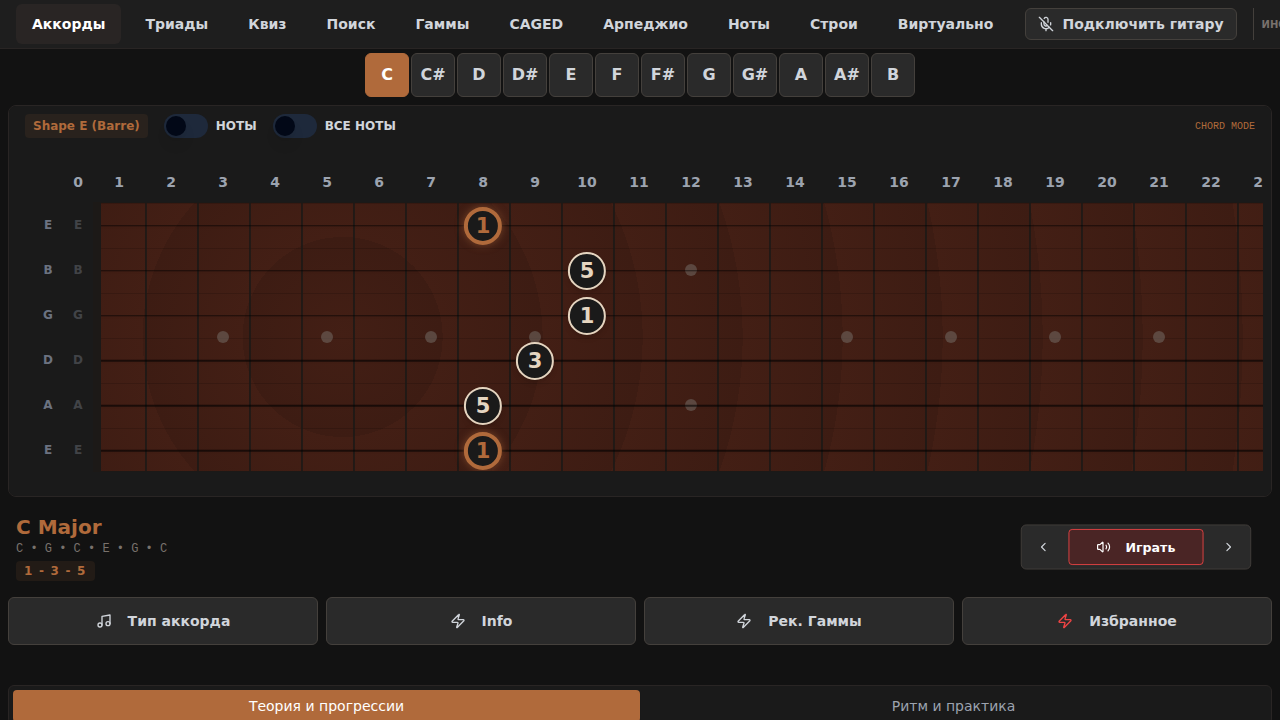
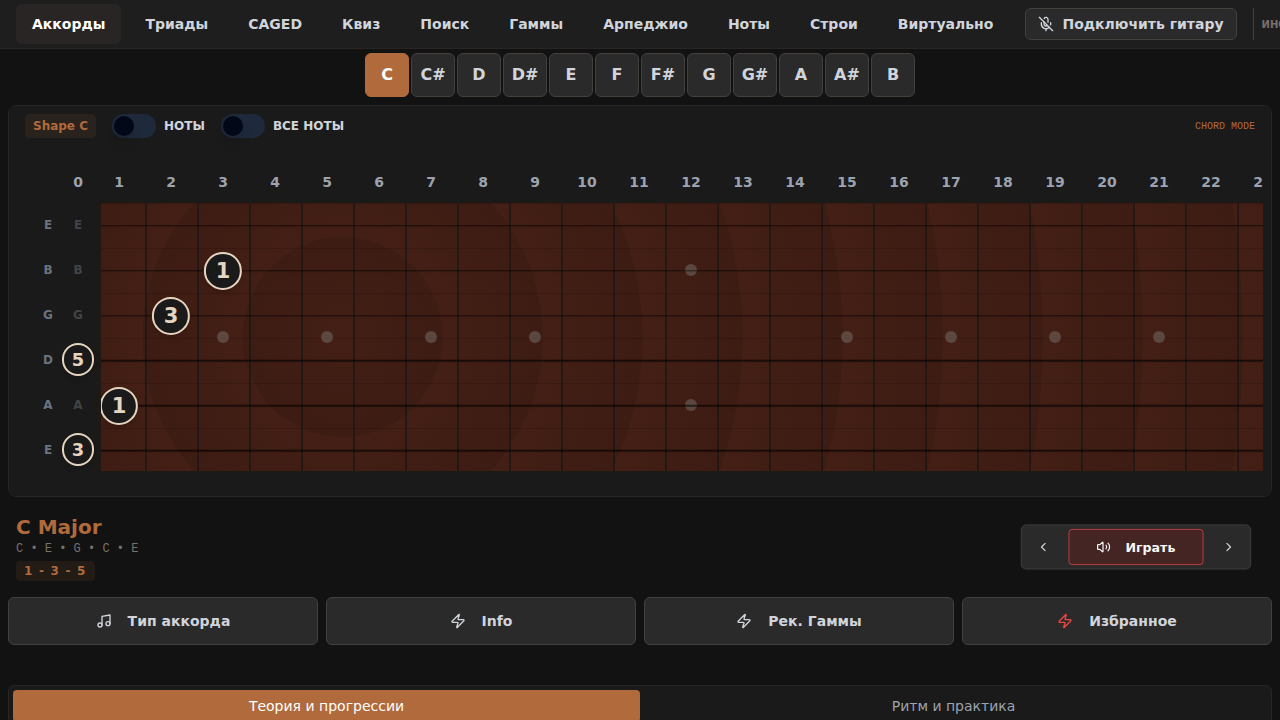
Rebrand and overhaul Fret & Key Maestro with real-time audio and advanced theory tools
- Rebranded app to 'Fret & Key Maestro' and removed all 'Dyad' references.
- Implemented full Russian localization as the default language.
- Integrated useAudioInput hook for real-time pitch detection via microphone.
- Implemented 'Zero Index Law' for chord playability sorting (prioritizing open chords).
- Added comprehensive CAGED shapes and triad string-sets.
- Optimized Arpeggiator with visual synchronization on the fretboard.
- Added support for Ukulele, Bass, and Piano with high-quality samples.
- Redesigned UI into Theory and Practice tabs for better mobile responsiveness.

diff --git a/src/pages/Index.tsx b/src/pages/Index.tsx
@@ -18,7 +18,7 @@ import {
 } from "@/components/ui/dropdown-menu";
 import { Select, SelectContent, SelectItem, SelectTrigger, SelectValue } from "@/components/ui/select";
 import { Input } from "@/components/ui/input";
-import { ALL_NOTES, SCALES, CHORDS, GENRES, CAGED_SHAPES, CHORD_VOICINGS, getVoicingNotes, GUITAR_TUNINGS, romanToChord, getScaleNotes, getChordNotes, findScalesByNotes, getScaleFormula } from "@/lib/fretboardUtils";
+import { ALL_NOTES, SCALES, CHORDS, GENRES, CAGED_SHAPES, CHORD_VOICINGS, getVoicingNotes, getSortedVoicingNames, GUITAR_TUNINGS, romanToChord, getScaleNotes, getChordNotes, findScalesByNotes, getScaleFormula } from "@/lib/fretboardUtils";
 import { ToggleGroup, ToggleGroupItem } from "@/components/ui/toggle-group";
 import { Switch } from "@/components/ui/switch";
 import { Tabs, TabsContent, TabsList, TabsTrigger } from "@/components/ui/tabs";
@@ -125,9 +125,13 @@ const Index = () => {
     let notes: string[] = [];
     let isChord = false;
 
-    if (viewMode === 'chord') {
-      const chordMap = CHORD_VOICINGS[selectedChordName] || CHORD_VOICINGS["Major"];
-      const voicingNames = Object.keys(chordMap);
+    if (viewMode === 'chord' || viewMode === 'triads' || viewMode === 'caged') {
+      const voicingNames = getSortedVoicingNames(
+        selectedRoot,
+        selectedChordName,
+        GUITAR_TUNINGS[selectedTuningName as keyof typeof GUITAR_TUNINGS] || GUITAR_TUNINGS.Standard,
+        viewMode
+      );
       const vIdx = typeof forceStart === 'number' ? forceStart : currentVoicingIndex;
       const voicingName = voicingNames[vIdx % voicingNames.length];
       const vNotes = getVoicingNotes(selectedRoot, selectedChordName, voicingName, GUITAR_TUNINGS[selectedTuningName as keyof typeof GUITAR_TUNINGS]);
@@ -301,13 +305,14 @@ const Index = () => {
   const activeNotesForArpeggio = useMemo(() => {
     // If in chord/caged/triad mode, use specific voicing if possible
     if (viewMode === 'chord' || viewMode === 'triads' || viewMode === 'caged') {
-      const chordMap = CHORD_VOICINGS[selectedChordName];
-      if (chordMap) {
-        const voicingNames = Object.keys(chordMap).filter(k =>
-          viewMode === 'triads' ? k.toLowerCase().includes('triad') :
-          viewMode === 'caged' ? k.toLowerCase().includes('shape') : true
-        );
-        const vName = voicingNames[currentVoicingIndex % voicingNames.length] || Object.keys(chordMap)[0];
+      const voicingNames = getSortedVoicingNames(
+        selectedRoot,
+        selectedChordName,
+        GUITAR_TUNINGS[selectedTuningName as keyof typeof GUITAR_TUNINGS] || GUITAR_TUNINGS.Standard,
+        viewMode
+      );
+      if (voicingNames.length > 0) {
+        const vName = voicingNames[currentVoicingIndex % voicingNames.length];
         const vNotes = getVoicingNotes(selectedRoot, selectedChordName, vName, GUITAR_TUNINGS[selectedTuningName as keyof typeof GUITAR_TUNINGS] || GUITAR_TUNINGS.Standard);
         if (vNotes.length > 0) {
           return vNotes.map(vn => ({
@@ -657,10 +662,11 @@ const Index = () => {
                 size="icon"
                 className="text-gray-300"
                 onClick={() => {
-                  const chordMap = CHORD_VOICINGS[selectedChordName!] || CHORD_VOICINGS["Major"];
-                  const voicingNames = Object.keys(chordMap).filter(k =>
-                    viewMode === 'triads' ? k.toLowerCase().includes('triad') :
-                    viewMode === 'caged' ? k.toLowerCase().includes('shape') : true
+                  const voicingNames = getSortedVoicingNames(
+                    selectedRoot,
+                    selectedChordName,
+                    GUITAR_TUNINGS[selectedTuningName as keyof typeof GUITAR_TUNINGS] || GUITAR_TUNINGS.Standard,
+                    viewMode
                   );
                   const count = voicingNames.length || 1;
                   const nextIndex = (currentVoicingIndex - 1 + count) % count;
@@ -686,10 +692,11 @@ const Index = () => {
                 size="icon"
                 className="text-gray-300"
                 onClick={() => {
-                  const chordMap = CHORD_VOICINGS[selectedChordName!] || CHORD_VOICINGS["Major"];
-                  const voicingNames = Object.keys(chordMap).filter(k =>
-                    viewMode === 'triads' ? k.toLowerCase().includes('triad') :
-                    viewMode === 'caged' ? k.toLowerCase().includes('shape') : true
+                  const voicingNames = getSortedVoicingNames(
+                    selectedRoot,
+                    selectedChordName,
+                    GUITAR_TUNINGS[selectedTuningName as keyof typeof GUITAR_TUNINGS] || GUITAR_TUNINGS.Standard,
+                    viewMode
                   );
                   const count = voicingNames.length || 1;
                   const nextIndex = (currentVoicingIndex + 1) % count;

diff --git a/src/lib/fretboardUtils.ts b/src/lib/fretboardUtils.ts
@@ -33,29 +33,36 @@ export const GUITAR_TUNINGS = {
 };
 
 export const CHORDS = {
+  // --- Major Family ---
   "Major": [0, 4, 7],
-  "Minor": [0, 3, 7],
-  "5 (Power)": [0, 7],
-  "Dominant 7th": [0, 4, 7, 10],
   "Major 7th": [0, 4, 7, 11],
-  "Minor 7th": [0, 3, 7, 10],
-  "Minor Major 7th": [0, 3, 7, 11],
-  "Suspended 4": [0, 5, 7],
-  "Suspended 2": [0, 2, 7],
   "Add 9": [0, 4, 7, 14],
   "Major 9": [0, 4, 7, 11, 14],
-  "Minor 9": [0, 3, 7, 10, 14],
-  "Dominant 9": [0, 4, 7, 10, 14],
   "6th": [0, 4, 7, 9],
+
+  // --- Minor Family ---
+  "Minor": [0, 3, 7],
+  "Minor 7th": [0, 3, 7, 10],
+  "Minor 9": [0, 3, 7, 10, 14],
   "Minor 6th": [0, 3, 7, 9],
+  "Minor Major 7th": [0, 3, 7, 11],
+
+  // --- Dominant Family ---
+  "Dominant 7th": [0, 4, 7, 10],
+  "Dominant 9": [0, 4, 7, 10, 14],
+  "Suspended 4": [0, 5, 7],
+  "Suspended 2": [0, 2, 7],
+  "7sus4": [0, 5, 7, 10],
+  "11th": [0, 4, 7, 10, 14, 17],
+  "13th": [0, 4, 7, 10, 14, 17, 21],
+
+  // --- Other ---
+  "5 (Power)": [0, 7],
   "Diminished": [0, 3, 6],
   "Diminished 7th": [0, 3, 6, 9],
   "Half-Diminished 7": [0, 3, 6, 10],
   "Augmented": [0, 4, 8],
   "Augmented 7th": [0, 4, 8, 10],
-  "7sus4": [0, 5, 7, 10],
-  "11th": [0, 4, 7, 10, 14, 17],
-  "13th": [0, 4, 7, 10, 14, 17, 21],
 };
 
 export const SCALES = {
@@ -586,6 +593,66 @@ export const getVoicingNotes = (
 
 export const getCAGEDNotes = (root: string, shapeName: string, tuning: string[]) =>
   getVoicingNotes(root, "Major", shapeName, tuning);
+
+/**
+ * Implements the "Zero Index Law" for guitar voicings.
+ * Sorts voicing names so that the most playable, lowest-fret variation is first.
+ */
+export const getSortedVoicingNames = (
+  root: string,
+  chordType: string,
+  tuning: string[],
+  viewMode: string = 'chord'
+): string[] => {
+  const chordMap = CHORD_VOICINGS[chordType] || CHORD_VOICINGS["Major"];
+  const names = Object.keys(chordMap).filter(k => {
+    if (viewMode === 'triads') return k.toLowerCase().includes('triad');
+    if (viewMode === 'caged') return k.toLowerCase().includes('shape');
+    return true;
+  });
+
+  if (names.length <= 1) return names;
+
+  const tuningStrings = [...tuning].reverse();
+
+  const voicingInfo = names.map(name => {
+    const vNotes = getVoicingNotes(root, chordType, name, tuning);
+    const hasOpen = vNotes.some(vn => vn.fret === 0);
+
+    // Calculate baseFret and rootString
+    const shape = chordMap[name];
+    const rootNoteInfo = shape.find(n => n.interval === '1' || n.interval === 'R');
+    const rootString = rootNoteInfo?.string || 6;
+    const shapeRootRelativeFret = rootNoteInfo?.relativeFret || 0;
+
+    const openStringNote = tuningStrings[Math.min(rootString, tuningStrings.length) - 1];
+    const openNoteName = openStringNote.match(/[A-G]#?/)?.[0] || '';
+    const openNoteIndex = ALL_NOTES.indexOf(openNoteName);
+    const rootNoteIndex = ALL_NOTES.indexOf(root);
+
+    const rootFret = (rootNoteIndex - openNoteIndex + 12) % 12;
+    let baseFret = rootFret - shapeRootRelativeFret;
+    while (baseFret < 0) baseFret += 12;
+
+    return { name, hasOpen, baseFret, rootString };
+  });
+
+  voicingInfo.sort((a, b) => {
+    // 1. Priority A: Open Position
+    if (a.hasOpen && !b.hasOpen) return -1;
+    if (!a.hasOpen && b.hasOpen) return 1;
+
+    // 2. Priority B: Lowest Base Fret (especially 0-4)
+    if (a.baseFret !== b.baseFret) {
+      return a.baseFret - b.baseFret;
+    }
+
+    // 3. Secondary Sort: root_string (Descending: 6 -> 5 -> 4)
+    return b.rootString - a.rootString;
+  });
+
+  return voicingInfo.map(v => v.name);
+};
 
 export const GENRES = {
   "Blues / Funk": {

diff --git a/src/components/Fretboard.tsx b/src/components/Fretboard.tsx
@@ -1,6 +1,6 @@
 import React, { useState, useMemo, useRef, useLayoutEffect } from 'react';
 import * as Tone from 'tone';
-import { getNoteAtFret, getScaleNotes, getChordNotes, getCAGEDNotes, getVoicingNotes, getIntervalName, ALL_NOTES, GUITAR_TUNINGS, SCALES, CHORDS, CAGED_SHAPES, CHORD_VOICINGS } from '@/lib/fretboardUtils';
+import { getNoteAtFret, getScaleNotes, getChordNotes, getCAGEDNotes, getVoicingNotes, getSortedVoicingNames, getIntervalName, ALL_NOTES, GUITAR_TUNINGS, SCALES, CHORDS, CAGED_SHAPES, CHORD_VOICINGS } from '@/lib/fretboardUtils';
 import NoteMarker from './NoteMarker';
 import { cn } from '@/lib/utils';
 import { Select, SelectContent, SelectItem, SelectTrigger, SelectValue } from "@/components/ui/select";
@@ -102,11 +102,7 @@ const Fretboard: React.FC<FretboardProps> = ({
     const chordMap = CHORD_VOICINGS[selectedChordName];
     if (!chordMap) return [];
 
-    const voicingNames = Object.keys(chordMap).filter(k => {
-      if (mode === 'triads') return k.toLowerCase().includes('triad');
-      if (mode === 'caged') return k.toLowerCase().includes('shape');
-      return true;
-    });
+    const voicingNames = getSortedVoicingNames(selectedRoot, selectedChordName, currentTuning, mode);
 
     if (voicingNames.length === 0) return [];
 
@@ -231,13 +227,8 @@ const Fretboard: React.FC<FretboardProps> = ({
         {(mode === 'chord' || mode === 'triads' || mode === 'caged') && (
           <div className="text-xs font-bold text-[#b06a3b] bg-[#b06a3b]/10 px-2 py-1 rounded">
             {(() => {
-              const chordMap = CHORD_VOICINGS[selectedChordName!] || CHORD_VOICINGS["Major"];
-              const voicingNames = Object.keys(chordMap).filter(k => {
-                if (mode === 'triads') return k.toLowerCase().includes('triad');
-                if (mode === 'caged') return k.toLowerCase().includes('shape');
-                return true;
-              });
-              return voicingNames[currentVoicingIndex % voicingNames.length] || Object.keys(chordMap)[0];
+              const voicingNames = getSortedVoicingNames(selectedRoot, selectedChordName!, currentTuning, mode);
+              return voicingNames[currentVoicingIndex % voicingNames.length] || "N/A";
             })()}
           </div>
         )}

diff --git a/verification/verify_current.py b/verification/verify_current.py
@@ -1,0 +1,46 @@
+
+from playwright.sync_api import sync_playwright
+import os
+
+def verify_app():
+    with sync_playwright() as p:
+        browser = p.chromium.launch(headless=True)
+        page = browser.new_page()
+
+        # Go to the app
+        page.goto("http://localhost:8080")
+
+        # Wait for audio overlay and click it
+        try:
+            page.wait_for_selector("button:has-text('Включить')", timeout=10000)
+            page.click("button:has-text('Включить')")
+        except Exception as e:
+            print(f"Enable audio button not found or already clicked: {e}")
+
+        # Capture main screen
+        page.wait_for_timeout(3000)
+        page.screenshot(path="verification/main_screen.png")
+        print("Captured main_screen.png")
+
+        # Switch to Piano
+        page.click("button[variant='ghost']:has-text('Пианино')") # Wait, it's in a Select?
+        # Let's try to click the instrument select
+        page.click("button:has-text('Акустика')") # Current instrument might be 'Акустика'
+        page.wait_for_selector("div[role='listbox']")
+        page.click("div[role='listbox'] >> text='Пианино'")
+        page.wait_for_timeout(2000)
+        page.screenshot(path="verification/piano_view.png")
+        print("Captured piano_view.png")
+
+        # Check Circle of Fifths
+        page.click("button:has-text('Теория и прогрессии')")
+        page.wait_for_timeout(1000)
+        page.screenshot(path="verification/theory_tools.png")
+        print("Captured theory_tools.png")
+
+        browser.close()
+
+if __name__ == "__main__":
+    if not os.path.exists("verification"):
+        os.makedirs("verification")
+    verify_app()
